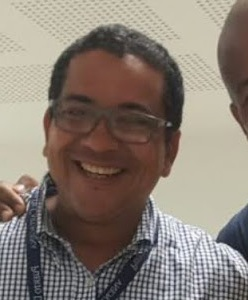
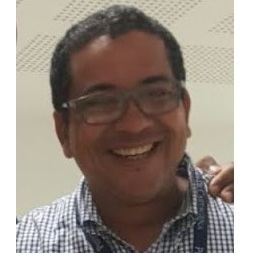
primeros pasos seccion hero

diff --git a/index.html b/index.html
@@ -19,7 +19,7 @@
             <span class="navbar-toggler-icon"></span>
           </button>
             <div class="collapse navbar-collapse" id="navbarToggler">
-                <a class="navbar-brand" href="#"><img src="/img/logo.png" width="55" alt="logo"></a>
+                <a class="navbar-brand" href="#"><img src="../img/logo.png" width="55" alt="logo"></a>
                 <ul class="navbar-nav d-flex justify-content-center aling-item-center">
                     <li class="nav-item">
                         <a class="nav-link active" aria-current="page" href="#">Este soy yo</a>
@@ -40,7 +40,7 @@
 
     <section class="hero align-items-stretch">
         <div class="hero-principal d-flex flex-column justify-content-center align-items-center">
-            <img src="/img/coder1.jpg" alt="imagenHero">
+            <img class="dev-img" src="../img/coder1.jpg" alt="imagenHero">
             <h1>hola, soy <strong>Ney Perea</strong></h1>
             <h2>Desarrollador web y Electronico industrial</h2>
 
@@ -52,14 +52,23 @@
 
 
 
+
+
+
+
+
+
+
+
+
+
+
+
+
+
+
+
     <a href="https://youtu.be/QCw0L6FupQ0?t=10448">seccion que explica Hero</a>
-
-
-
-
-
-
-
     <script src="https://cdn.jsdelivr.net/npm/bootstrap@5.2.3/dist/js/bootstrap.bundle.min.js" integrity="sha384-kenU1KFdBIe4zVF0s0G1M5b4hcpxyD9F7jL+jjXkk+Q2h455rYXK/7HAuoJl+0I4" crossorigin="anonymous"></script>
 </body>
 

diff --git a/css/style.css b/css/style.css
@@ -29,6 +29,14 @@ h1 {
     min-height: 450px;
 }
 
+.dev-img {
+    width: 200px;
+    height: 200px;
+    margin: 20px;
+    border-radius: 50%;
+    border: solid;
+}
+
 
 /* responsivo */
 
